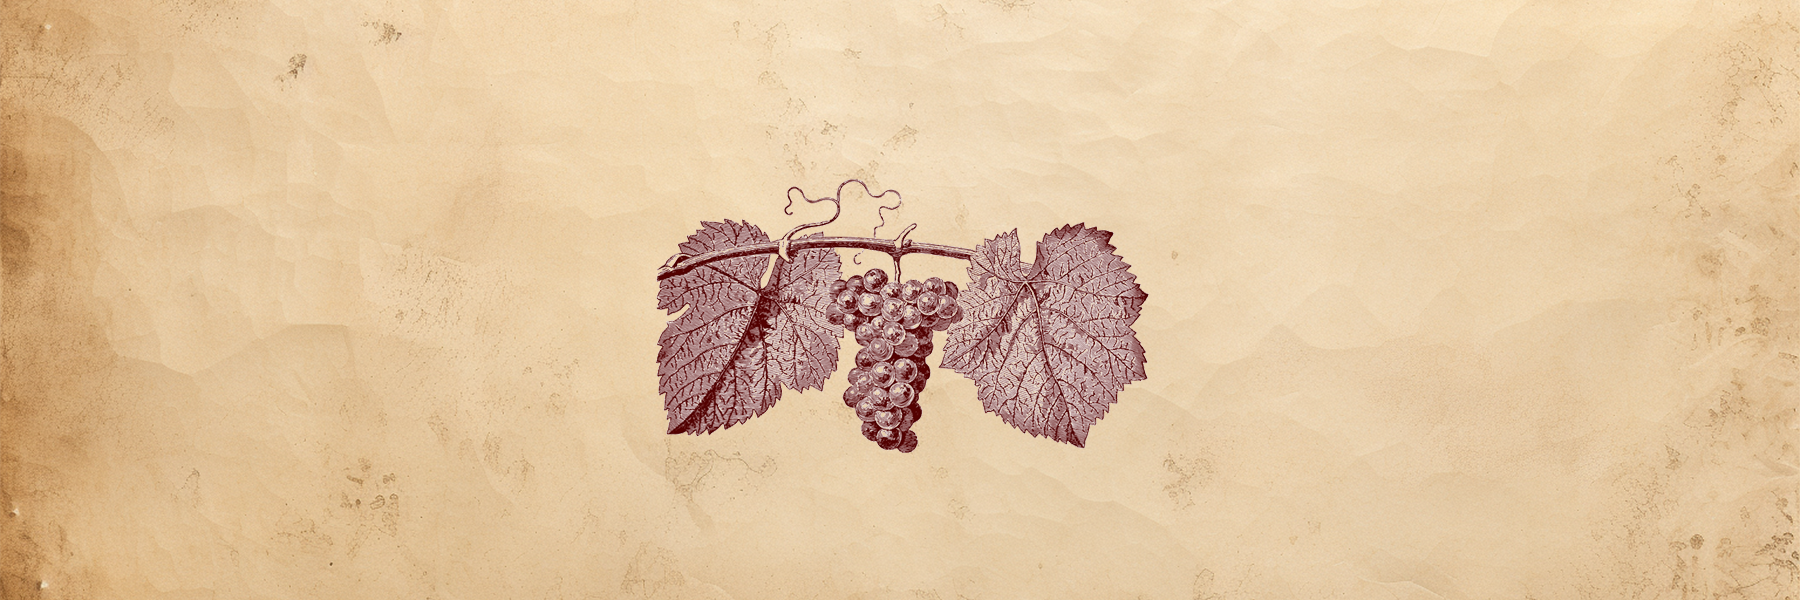
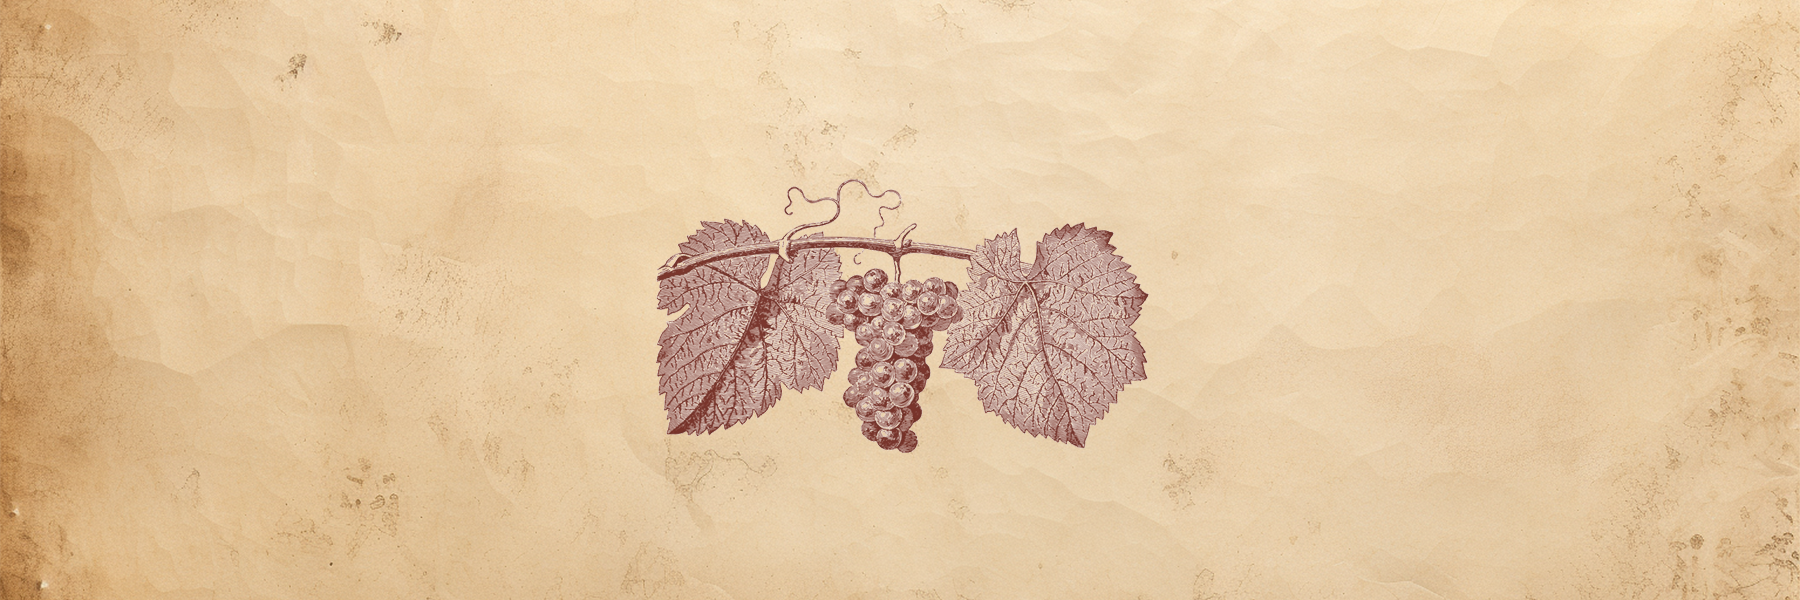
Grapes transparency

Changed region(s): [[0.3422, 0.33, 0.6533, 0.75]]

diff --git a/styles/my-styles.css b/styles/my-styles.css
@@ -1,9 +1,9 @@
 /* Font Awesome Icons  */
 
-/*Global variables*/
+/*Global variables
 :root {
 
-}
+} */
 
 
 .team-container {
@@ -76,9 +76,9 @@
 
 .bi-1 {
     background-image: url('../images/MainLabel/paperGrapes.png');
-    height: 600px;
+    height: 800px;
     position: relative;
-    opacity: 0.8;
+    opacity: 0.9;
 }
 
 .bi-1::before {
@@ -90,7 +90,6 @@
     background-size: 100% 100%;
     max-height: auto;
     background-repeat: no-repeat;
-    opacity: 0.8;
 }
 
 /*.bi-1::after {
